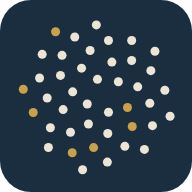
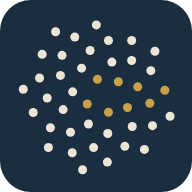
Sync Mobile-Pages aus Haupt-Repo 2026-06-03

diff --git a/index.html b/index.html
@@ -46,7 +46,7 @@ section h2{font-family:-apple-system,BlinkMacSystemFont,'SF Pro Display','Inter'
     <meta name="twitter:image" content="https://karriaro-webdesign.de/images/og-image-mobile.jpg">
     <link rel="alternate" hreflang="de" href="https://karriaro-webdesign.de/">
     <link rel="alternate" hreflang="en" href="https://karriaro-webdesign.de/en">
-    <link rel="icon" type="image/svg+xml" href="https://karriaro-webdesign.de/images/favicon.svg?v=6">
+    <link rel="icon" type="image/svg+xml" href="https://karriaro-webdesign.de/images/favicon.svg?v=7">
 
     <!-- Performance — LCP-Preloads: Hero-Bild (AVIF) + H1-Display-Schrift, so früh wie möglich,
          damit sie nicht erst bei Render-Discovery / hinter render-blockierendem CSS starten. -->
@@ -3665,7 +3665,7 @@ section h2{font-family:-apple-system,BlinkMacSystemFont,'SF Pro Display','Inter'
 
     <nav>
         <div class="inner">
-            <a href="/" class="nav-logo" aria-label="Karriaro · Startseite"><svg class="nav-mark" viewBox="0 0 40 40" width="40" height="40" aria-hidden="true" focusable="false"><circle cx="17.63" cy="22.17" r="1.45" fill="currentColor"/><circle cx="20.40" cy="15.47" r="1.45" fill="currentColor"/><circle cx="23.39" cy="24.42" r="1.45" fill="currentColor"/><circle cx="13.67" cy="18.88" r="1.45" fill="currentColor"/><circle cx="26.06" cy="16.14" r="1.45" fill="currentColor"/><circle cx="17.96" cy="27.60" r="1.45" fill="currentColor"/><circle cx="16.08" cy="12.46" r="1.45" fill="currentColor"/><circle cx="28.54" cy="23.12" r="1.45" fill="#C9A14A"/><circle cx="11.09" cy="23.68" r="1.45" fill="currentColor"/><circle cx="24.31" cy="10.80" r="1.45" fill="currentColor"/><circle cx="23.19" cy="30.17" r="1.45" fill="currentColor"/><circle cx="10.37" cy="14.42" r="1.45" fill="currentColor"/><circle cx="31.31" cy="17.51" r="1.45" fill="currentColor"/><circle cx="13.09" cy="29.83" r="1.45" fill="currentColor"/><circle cx="18.40" cy="7.66" r="1.45" fill="currentColor"/><circle cx="29.83" cy="28.28" r="1.45" fill="#C9A14A"/><circle cx="6.77" cy="20.55" r="1.45" fill="currentColor"/><circle cx="29.66" cy="10.39" r="1.45" fill="currentColor"/><circle cx="19.35" cy="33.99" r="1.45" fill="#C9A14A"/><circle cx="10.79" cy="8.97" r="1.45" fill="currentColor"/><circle cx="34.59" cy="21.96" r="1.45" fill="currentColor"/><circle cx="7.63" cy="28.61" r="1.45" fill="currentColor"/><circle cx="23.38" cy="4.97" r="1.45" fill="currentColor"/><circle cx="27.83" cy="33.66" r="1.45" fill="currentColor"/><circle cx="4.70" cy="15.12" r="1.45" fill="currentColor"/><circle cx="34.87" cy="13.13" r="1.45" fill="currentColor"/><circle cx="13.56" cy="35.40" r="1.45" fill="#C9A14A"/><circle cx="14.25" cy="4.00" r="1.45" fill="currentColor"/></svg><span class="nav-wordmark">Karriaro</span></a>
+            <a href="/" class="nav-logo" aria-label="Karriaro · Startseite"><svg class="nav-mark" viewBox="0 0 40 40" width="40" height="40" aria-hidden="true" focusable="false"><circle cx="17.63" cy="22.17" r="1.45" fill="#C9A14A"/><circle cx="20.40" cy="15.47" r="1.45" fill="#C9A14A"/><circle cx="23.39" cy="24.42" r="1.45" fill="#C9A14A"/><circle cx="13.67" cy="18.88" r="1.45" fill="currentColor"/><circle cx="26.06" cy="16.14" r="1.45" fill="#C9A14A"/><circle cx="17.96" cy="27.60" r="1.45" fill="currentColor"/><circle cx="16.08" cy="12.46" r="1.45" fill="currentColor"/><circle cx="28.54" cy="23.12" r="1.45" fill="#C9A14A"/><circle cx="11.09" cy="23.68" r="1.45" fill="currentColor"/><circle cx="24.31" cy="10.80" r="1.45" fill="currentColor"/><circle cx="23.19" cy="30.17" r="1.45" fill="currentColor"/><circle cx="10.37" cy="14.42" r="1.45" fill="currentColor"/><circle cx="31.31" cy="17.51" r="1.45" fill="#C9A14A"/><circle cx="13.09" cy="29.83" r="1.45" fill="currentColor"/><circle cx="18.40" cy="7.66" r="1.45" fill="currentColor"/><circle cx="29.83" cy="28.28" r="1.45" fill="currentColor"/><circle cx="6.77" cy="20.55" r="1.45" fill="currentColor"/><circle cx="29.66" cy="10.39" r="1.45" fill="currentColor"/><circle cx="19.35" cy="33.99" r="1.45" fill="currentColor"/><circle cx="10.79" cy="8.97" r="1.45" fill="currentColor"/><circle cx="34.59" cy="21.96" r="1.45" fill="#C9A14A"/><circle cx="7.63" cy="28.61" r="1.45" fill="currentColor"/><circle cx="23.38" cy="4.97" r="1.45" fill="currentColor"/><circle cx="27.83" cy="33.66" r="1.45" fill="currentColor"/><circle cx="4.70" cy="15.12" r="1.45" fill="currentColor"/><circle cx="34.87" cy="13.13" r="1.45" fill="currentColor"/><circle cx="13.56" cy="35.40" r="1.45" fill="currentColor"/><circle cx="14.25" cy="4.00" r="1.45" fill="currentColor"/></svg><span class="nav-wordmark">Karriaro</span></a>
             <div class="links">
                 <a href="#faq">FAQ</a>
                 <a href="#preis">Preis</a>
@@ -4863,9 +4863,10 @@ section h2{font-family:-apple-system,BlinkMacSystemFont,'SF Pro Display','Inter'
                     if (!g) return;
                     var svgNS = 'http://www.w3.org/2000/svg';
                     var gA = (3 - Math.sqrt(5)) * Math.PI, N = 110, R = 36, c = R / Math.sqrt(N);
+                    var FIB = { 1:1, 2:1, 3:1, 5:1, 8:1, 13:1, 21:1, 34:1, 55:1, 89:1 }; // Gold = Fibonacci-Spirale (goldener Faden)
                     for (var n = 1; n <= N; n++) {
                         var r = c * Math.sqrt(n), t = n * gA;
-                        var gold = (((n * 2654435761) >>> 0) % 100) < 14;
+                        var gold = FIB[n] === 1;
                         var circ = document.createElementNS(svgNS, 'circle');
                         circ.setAttribute('cx', (45 + r * Math.cos(t)).toFixed(2));
                         circ.setAttribute('cy', (45 + r * Math.sin(t)).toFixed(2));
